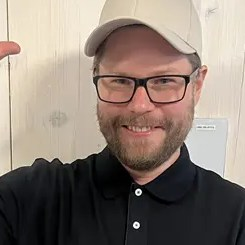
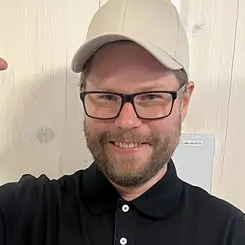
fix(om): justert sirkelutsnitt, «digitalt læringsdesign» og tekstkutt
Utsnittet flyttet opp og til hoyre (208,24,245): capsen hel med
luft, ansiktet sentrert. «Digital laeringsdesign» -> «digitalt
laeringsdesign» overalt (om-bio + spillets artifacts/dialogue/quests
— t-en kom til i studienavnet underveis i studietiden). Sted-raden
sier kun «Halden», og «— ingenting lagres paa veien» er fjernet fra
kontaktingressen.

diff --git a/src/spill/game/content/kompetansebyen/artifacts.ts b/src/spill/game/content/kompetansebyen/artifacts.ts
@@ -35,7 +35,7 @@ export const artifacts: Artifact[] = [
     id: "master-oslomet",
     title: { no: "Mastergrad — OsloMet", en: "Master's degree — OsloMet" },
     description: {
-      no: "Master i digital læringsdesign (MAIKT), OsloMet.",
+      no: "Master i digitalt læringsdesign (MAIKT), OsloMet.",
       en: "Master in digital learning design (MAIKT), OsloMet.",
     },
     kind: "cert",

diff --git a/src/spill/game/content/kompetansebyen/dialogue.ts b/src/spill/game/content/kompetansebyen/dialogue.ts
@@ -107,7 +107,7 @@ export const dialogue: Record<string, DialogueTree> = {
   "oslomet-board": [
     {
       text: {
-        no: "Master i digital læringsdesign. Kjernen: design SAMMEN med folk, ikke FOR dem.",
+        no: "Master i digitalt læringsdesign. Kjernen: design SAMMEN med folk, ikke FOR dem.",
         en: "Master in digital learning design. The core: design WITH people, not FOR them.",
       },
     },

diff --git a/src/spill/game/content/kompetansebyen/quests.ts b/src/spill/game/content/kompetansebyen/quests.ts
@@ -105,7 +105,7 @@ export const quests: Quest[] = [
       en: "Talk to the supervisor about the master's thesis.",
     },
     intro: {
-      no: "Master i digital læringsdesign. Nå: fra forløper til Klar, sammen med lærerne.",
+      no: "Master i digitalt læringsdesign. Nå: fra forløper til Klar, sammen med lærerne.",
       en: "Master in digital learning design. Now: from precursor to Klar, together with the teachers.",
     },
     requires: { allQuests: ["pd-app-bygg"] },